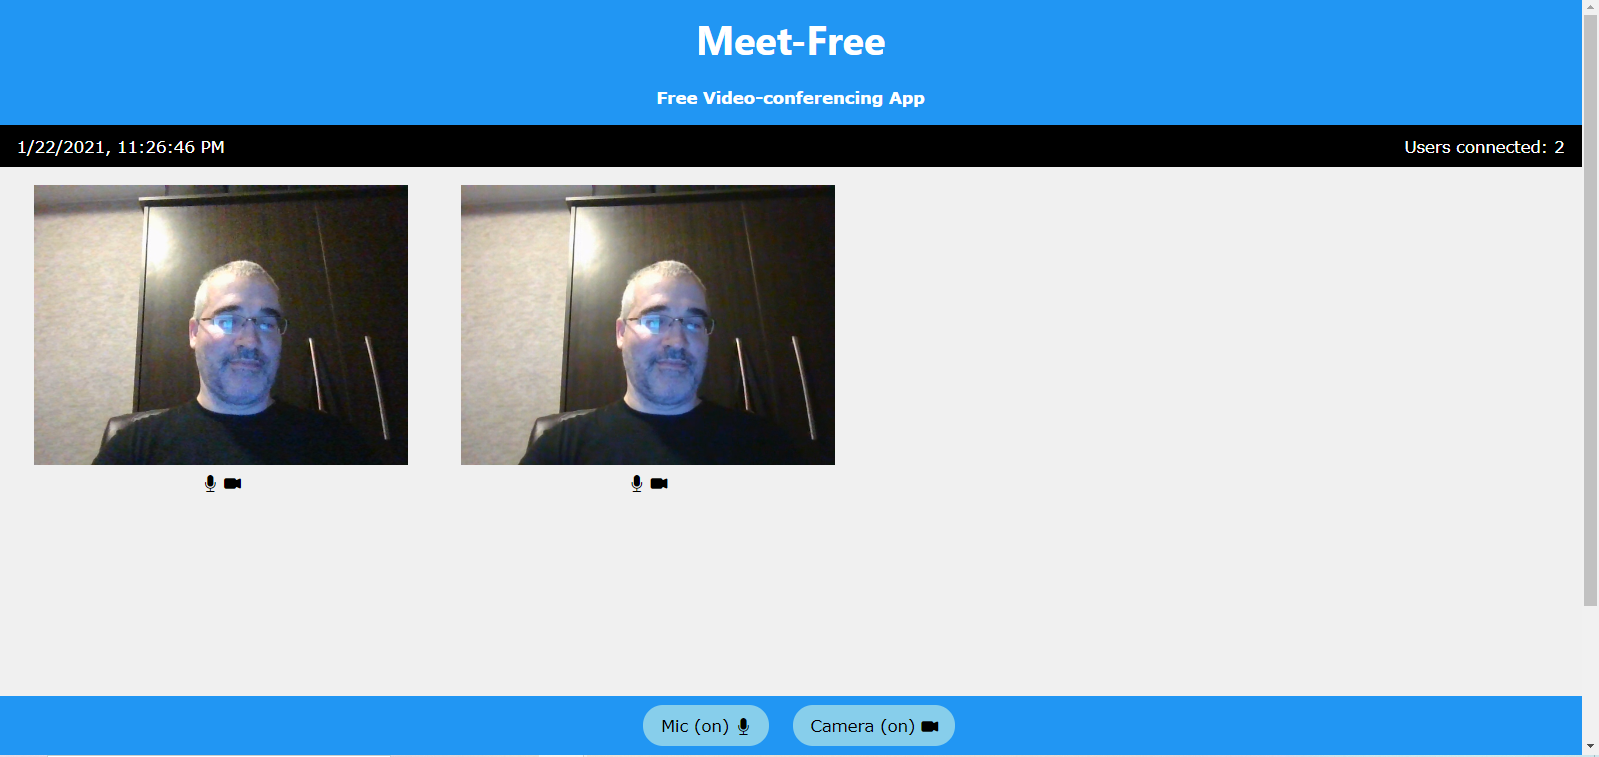
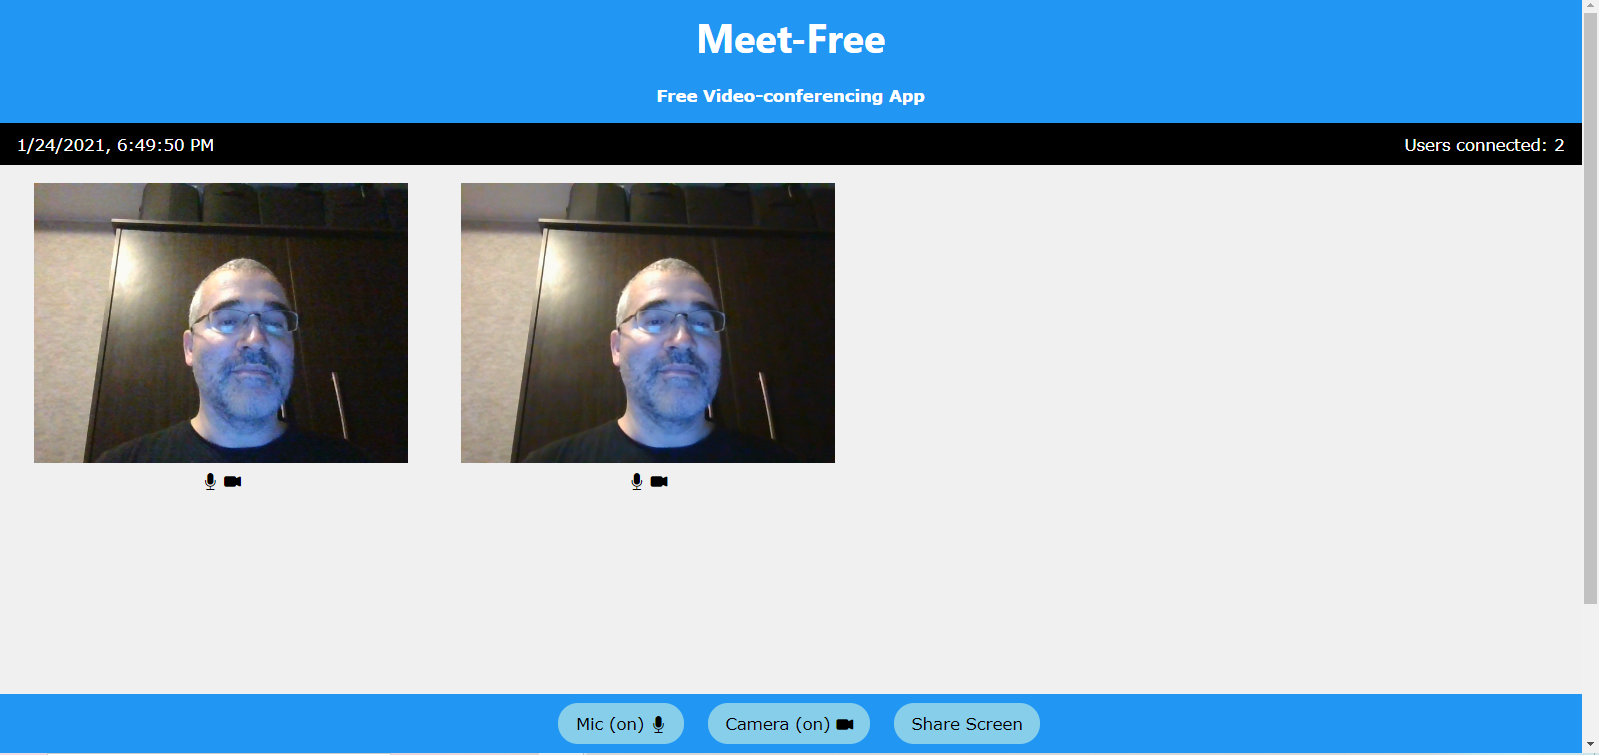
feat: screen sharing part 2

diff --git a/public/main_vue.js b/public/main_vue.js
@@ -1,6 +1,37 @@
 import App from './components/App.js';
 
 
+function propagateNewStreamToOthers(newStream, peersListExcludingMe) {
+            
+    if (peersListExcludingMe && (peersListExcludingMe.length>0) ) {
+
+        console.log(`There are peers to contact : ${peersListExcludingMe.length}`);
+
+        // this should be sharing stream
+        const mediaStream = newStream;
+
+        for(const aPeer of peersListExcludingMe) {
+
+            const sendersList = aPeer.call?.peerConnection?.getSenders();
+            sendersList.map( (sender) => {
+                if(sender.track.kind == "audio") {
+                    if(mediaStream.getAudioTracks().length > 0){
+                        sender.replaceTrack(mediaStream.getAudioTracks()[0]);
+                    }
+                }
+                if(sender.track.kind == "video") {
+                    if(mediaStream.getVideoTracks().length > 0){
+                        sender.replaceTrack(mediaStream.getVideoTracks()[0]);
+                    }
+                }
+            });
+  
+        } //for 
+
+    } // there are peers
+
+}
+
 const store = new Vuex.Store({
     state: {
        product:`Meet-Free` ,
@@ -114,10 +145,18 @@ const store = new Vuex.Store({
                 // store my shared stream here
                 state.sharingTemp.shareStream = shareStream;
                 myInfo.stream = shareStream;
+
+                // need to call all peers to replace my existing stream
+                //https://dev.to/arjhun777/video-chatting-and-screen-sharing-with-react-node-webrtc-peerjs-18fg
+                const peersListExcludingMe = state.connectedList.filter( item => {
+                    return item.isMe === false;
+                } );
+
+                propagateNewStreamToOthers(myInfo.stream, peersListExcludingMe);
+
             }
 
-            // need to call all peers to replace my existing stream
-            //https://dev.to/arjhun777/video-chatting-and-screen-sharing-with-react-node-webrtc-peerjs-18fg
+            
          },    
          stopSharingSomething(state) {
 
@@ -138,10 +177,17 @@ const store = new Vuex.Store({
                        console.log(`Error closing stream`);
                 }
                 state.sharingTemp.shareStream = undefined;
+
+                // need to call all peers to replace my existing stream
+                //https://dev.to/arjhun777/video-chatting-and-screen-sharing-with-react-node-webrtc-peerjs-18fg
+                const peersListExcludingMe = state.connectedList.filter( item => {
+                    return item.isMe === false;
+                } );
+
+                propagateNewStreamToOthers(myInfo.stream, peersListExcludingMe);
+
             }
 
-            // need to call all peers to replace my existing stream
-            //https://dev.to/arjhun777/video-chatting-and-screen-sharing-with-react-node-webrtc-peerjs-18fg
          }     
          
       },
@@ -169,7 +215,7 @@ const store = new Vuex.Store({
         context.commit('stopSharingSomething');
        },
 
-    }
+    },
 
 });
 

diff --git a/public/components/App.js b/public/components/App.js
@@ -163,7 +163,7 @@ methods: {
         const call = this.myPeer.call(userId,stream);
 
         // preparing most of user connection data here; but don't yet have stream
-        const userConnection =  { id: userId, roomId: this.myConnection.roomId, stream: undefined, isMe: false, audioEnabled:true, videoEnabled:true, sharing:false,call:undefined};
+        const userConnection =  { id: userId, roomId: this.myConnection.roomId, stream: undefined, isMe: false, audioEnabled:true, videoEnabled:true, sharing:false,call:call};
         
         call.on('stream', userVideoStream => {
           // have the user's stream now, so can finally add user connection data to the store.
